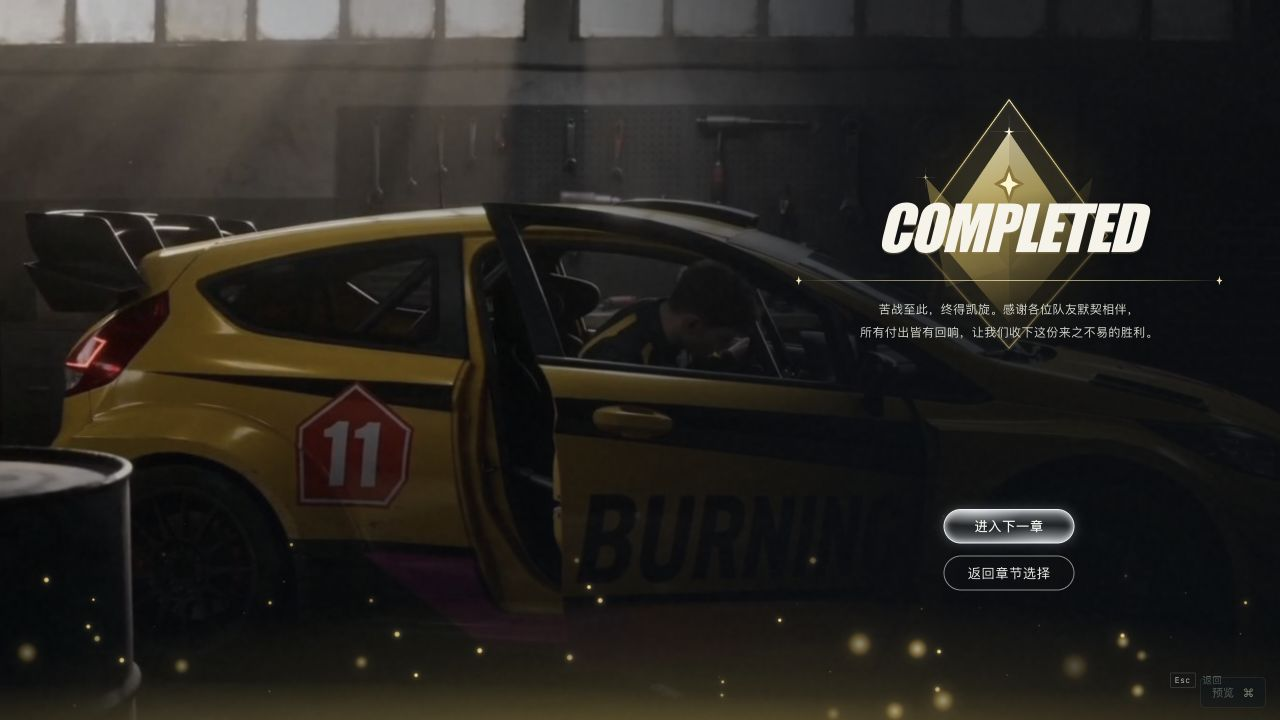
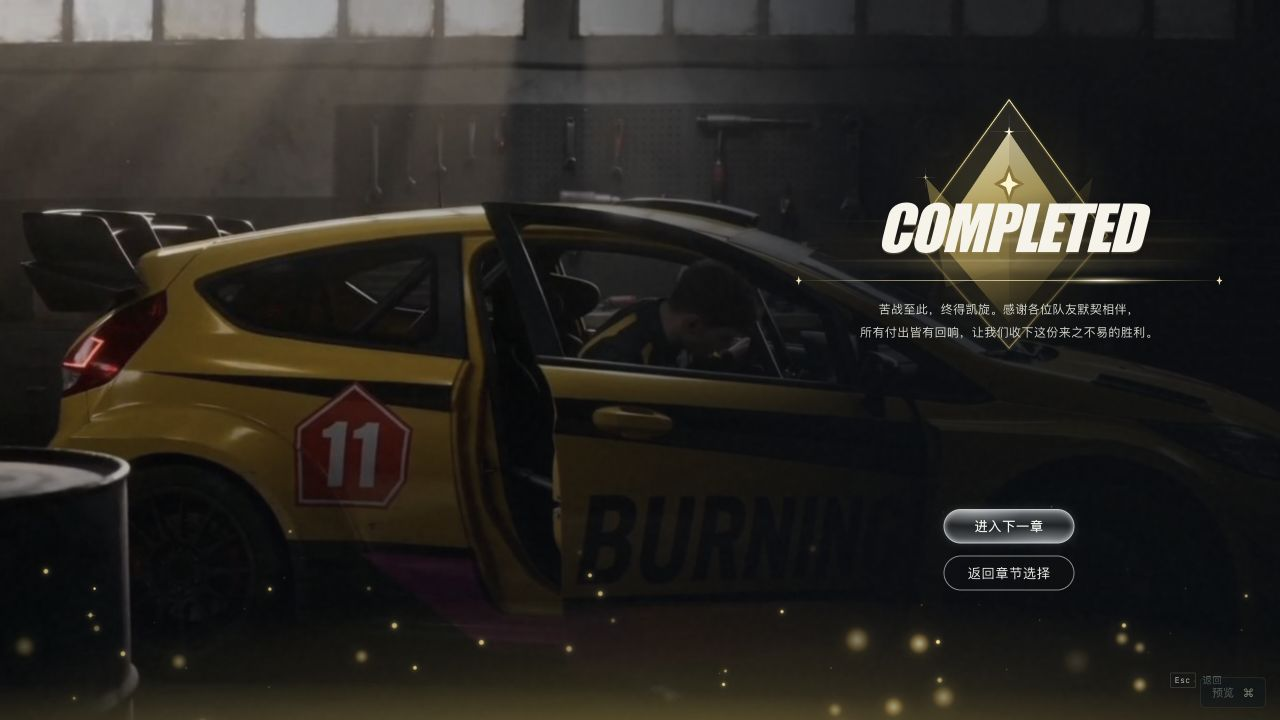
Reveal warm title light with the completion entrance

diff --git a/compare.html b/compare.html
@@ -6,4 +6,4 @@
 <div id="comparison" class="comparison fit-stage" data-mode="wipe"><div class="still-stage"><div class="before-layer"><img id="before-image" alt="修改前截图"><div id="no-before" class="no-before" hidden><span>—</span><h3>没有对应原版截图</h3><p id="before-note"></p></div><span class="picture-label before-label">原版</span></div><div class="after-layer" id="after-layer"><img id="after-image" alt="修改后截图"><span class="picture-label after-label">新版</span></div><div id="wipe-handle" class="wipe-handle"><span>↔</span></div><div class="safe-area" aria-hidden="true"><span>4.5% 水平安全区</span></div></div><div class="motion-stage" hidden><iframe id="motion-frame" title="页面动效预览"></iframe><div class="safe-area" aria-hidden="true"><span>4.5% 水平安全区</span></div></div></div>
 <div id="slider-row" class="slider-row"><span>新版更多</span><input id="wipe-slider" type="range" min="0" max="100" value="50" aria-label="新旧画面分割位置"><span>原版更多</span></div><p id="image-note" class="image-note"></p><div class="change-summary"><div><h3>布局与层级</h3><p id="change"></p></div><div><h3>比例</h3><p id="ratio"></p></div><div><h3>动效与操作</h3><p id="motion"></p><p id="interaction"></p></div></div></section>
 <section id="proportions" class="spec-section"><div class="section-heading"><span class="eyebrow">PROPORTION SYSTEM</span><h2>分别调整层级，建立统一的尺寸体系。</h2><p>以下均以 1920×1080 为设计基准。背景随视口铺满，UI 按当前基准等比缩放；水平安全区为画面宽度的 4.5%。原版数值来自截图估测。</p></div><div class="table-scroll"><table><thead><tr><th>项目</th><th>原版 · 约</th><th>新版</th><th>变化</th><th>调整目的</th></tr></thead><tbody id="proportion-table"></tbody></table></div><div class="principles"><div><span>01</span><h3>让场景成为主体</h3><p>减少全屏灰白覆盖和重高光。菜单、设置、弹窗用暗色虚化与局部明暗建立前后层次。</p></div><div><span>02</span><h3>控制视觉重量</h3><p>正文、辅助数值、主操作分别定标。保留大结果标题，收紧表单标签与导航控件。</p></div><div><span>03</span><h3>统一反馈语言</h3><p>细描边、短位移、柔和减速。悬停、按下、选中、取消与退出都给出明确回应。</p></div></div></section>
-<section id="handoff" class="spec-section"><div class="section-heading"><span class="eyebrow">MOTION SYSTEM</span><h2>一套进出场节奏，覆盖每个页面。</h2><p>页面退出 150ms，新页标题先入场，内容以 42–85ms 错峰，主体在约 0.8–1.1s 内落位。背景与封面 Logo 使用更长的缓慢收尾。</p></div><div class="motion-grid"><div><h3>常规入场</h3><strong>560–760<span> ms</span></strong><p>缓动 cubic-bezier(.16, 1, .3, 1)<br>上下位移约 8–24px，以设计基准计</p></div><div><h3>背景推近</h3><strong>3.6<span> s</span></strong><p>起止速度与加速度均为零<br>封面 100% → 103.5%，结束后停留</p></div><div><h3>确认弹窗</h3><strong>420<span> ms</span></strong><p>遮罩先淡入，弹窗轻浮落位<br>退出 150ms，取消后恢复焦点</p></div></div><div class="check-row"><span>✓ 页面切换</span><span>✓ 悬停 / 按下</span><span>✓ 键盘操作</span><span>✓ 弹窗焦点</span><span>✓ 减少动态效果适配</span><span>✓ 所有页面可重播</span><span>✓ Hover / 点击 / 切页音效</span></div><div class="file-links"><a href="design-tokens.json" download>下载尺寸与颜色参数</a><a href="motion-spec.json" download>下载逐页动效参数</a><a href="sound-spec.json" download>下载界面音效参数</a><a href="implementation-notes.txt" download>下载落地说明</a><a href="https://preview.game.yoroll.ai/?config=Race&test=1&lang=zh" target="_blank">查看原始预览 ↗</a></div><details open><summary>范围、素材与验证说明</summary><ul id="scope-notes"></ul><p>已检查主菜单、章节与剧情树导航；设置数值与语言下拉；新建存档和确认 / 取消；限时选择暂停计时；选择 → QTE → 结果链路；完成页可进入下一章或返回章节选择。所有页面 / 状态均已保存本地截图。</p></details></section><footer class="report-footer">YOROLL · UI & MOTION EXPLORATION <span>2026.11.11 · 本地方案</span></footer></article></main><script src="report-data.js?v=affinity-atmosphere-20261114"></script><script src="compare.js?v=affinity-atmosphere-20261114"></script></body></html>
+<section id="handoff" class="spec-section"><div class="section-heading"><span class="eyebrow">MOTION SYSTEM</span><h2>一套进出场节奏，覆盖每个页面。</h2><p>页面退出 150ms，新页标题先入场，内容以 42–85ms 错峰，主体在约 0.8–1.1s 内落位。背景与封面 Logo 使用更长的缓慢收尾。</p></div><div class="motion-grid"><div><h3>常规入场</h3><strong>560–760<span> ms</span></strong><p>缓动 cubic-bezier(.16, 1, .3, 1)<br>上下位移约 8–24px，以设计基准计</p></div><div><h3>背景推近</h3><strong>3.6<span> s</span></strong><p>起止速度与加速度均为零<br>封面 100% → 103.5%，结束后停留</p></div><div><h3>确认弹窗</h3><strong>420<span> ms</span></strong><p>遮罩先淡入，弹窗轻浮落位<br>退出 150ms，取消后恢复焦点</p></div></div><div class="check-row"><span>✓ 页面切换</span><span>✓ 悬停 / 按下</span><span>✓ 键盘操作</span><span>✓ 弹窗焦点</span><span>✓ 减少动态效果适配</span><span>✓ 所有页面可重播</span><span>✓ Hover / 点击 / 切页音效</span></div><div class="file-links"><a href="design-tokens.json" download>下载尺寸与颜色参数</a><a href="motion-spec.json" download>下载逐页动效参数</a><a href="sound-spec.json" download>下载界面音效参数</a><a href="implementation-notes.txt" download>下载落地说明</a><a href="https://preview.game.yoroll.ai/?config=Race&test=1&lang=zh" target="_blank">查看原始预览 ↗</a></div><details open><summary>范围、素材与验证说明</summary><ul id="scope-notes"></ul><p>已检查主菜单、章节与剧情树导航；设置数值与语言下拉；新建存档和确认 / 取消；限时选择暂停计时；选择 → QTE → 结果链路；完成页可进入下一章或返回章节选择。所有页面 / 状态均已保存本地截图。</p></details></section><footer class="report-footer">YOROLL · UI & MOTION EXPLORATION <span>2026.11.11 · 本地方案</span></footer></article></main><script src="report-data.js?v=result-title-light-20261114"></script><script src="compare.js?v=result-title-light-20261114"></script></body></html>

diff --git a/app.js b/app.js
@@ -557,7 +557,7 @@ function resultDustMarkup(){
 }
 function resultView(){
  const last=selectedChapter===CHAPTER_PREVIEWS.length-1;
- return `${resultDustMarkup()}<section class="result-layout" aria-labelledby="result-title"><div class="result-emblem" data-enter="result-emblem" aria-hidden="true"><img src="assets/completion-emblem.svg" alt="" draggable="false"></div><div class="result-copy"><h1 id="result-title" data-enter="result-title" aria-label="章节完成">COMPLETED</h1><div class="result-divider" data-enter="result-divider" aria-hidden="true"><i></i><i></i></div><p data-enter="result-copy">苦战至此，终得凯旋。感谢各位队友默契相伴，<br>所有付出皆有回响，让我们收下这份来之不易的胜利。</p></div><div class="result-actions"><div data-enter="result-action">${button(last?'返回主菜单':'进入下一章','result-next','btn-primary')}</div><div data-enter="result-action">${goButton('返回章节选择','chapters')}</div></div></section>${footer('')}`;
+ return `${resultDustMarkup()}<section class="result-layout" aria-labelledby="result-title"><div class="result-emblem" data-enter="result-emblem" aria-hidden="true"><img src="assets/completion-emblem.svg" alt="" draggable="false"></div><div class="result-copy"><div class="result-title-group" data-enter="result-title"><div class="result-title-light" data-enter="result-title-light" aria-hidden="true"><i class="result-title-ray"></i><i class="result-title-ray"></i><i class="result-title-ray"></i></div><h1 id="result-title" aria-label="章节完成">COMPLETED</h1></div><div class="result-divider" data-enter="result-divider" aria-hidden="true"><i></i><i></i></div><p data-enter="result-copy">苦战至此，终得凯旋。感谢各位队友默契相伴，<br>所有付出皆有回响，让我们收下这份来之不易的胜利。</p></div><div class="result-actions"><div data-enter="result-action">${button(last?'返回主菜单':'进入下一章','result-next','btn-primary')}</div><div data-enter="result-action">${goButton('返回章节选择','chapters')}</div></div></section>${footer('')}`;
 }
 const renders={splash:splashView,home:()=>homeView(),cover:()=>homeView(true),chapters:chaptersView,tree:treeView,affinity:affinityView,saves:saveView,settings:settingsView,logout:()=>homeView(),gameplay:gameplayView,pause:pauseView,choice:choiceView,qte:qteView,result:resultView,exit:()=>homeView()};
 function setScene(page){
@@ -603,6 +603,7 @@ function enterPage(){
  $$('[data-enter="wordmark"]').forEach(el=>enter(el,{y:unit(18),scale:.975,blur:5,delay:200,duration:1600}));
  $$('[data-enter="result-emblem"]').forEach(el=>enter(el,{y:unit(12),scale:.95,blur:2,delay:40,duration:1250}));
  $$('[data-enter="result-title"]').forEach(el=>enter(el,{y:unit(16),scale:.985,delay:160,duration:850}));
+ $$('[data-enter="result-title-light"]').forEach(el=>animate(el,[{opacity:0,transform:'scale3d(.38,.65,1)',offset:0,easing:'cubic-bezier(.22,.61,.36,1)'},{opacity:.9,transform:'scale3d(1.04,1.08,1)',offset:.46,easing:'cubic-bezier(.45,0,.55,1)'},{opacity:.46,transform:'scale3d(1,1,1)',offset:1}],{duration:1500,delay:160,easing:'linear'}));
  $$('[data-enter="result-divider"]').forEach(el=>animate(el,[{opacity:0,transform:'scaleX(.7)'},{opacity:1,transform:'scaleX(1)'}],{duration:1000,delay:260,easing:'cubic-bezier(.16,1,.3,1)'}));
  $$('[data-enter="result-atmosphere"]').forEach(el=>enter(el,{y:0,delay:180,duration:1400}));
  animateScene();

diff --git a/style.css b/style.css
@@ -251,8 +251,18 @@
 .result-emblem{position:absolute;z-index:-1;left:50%;top:calc(var(--p)*-160);translate:-50% 0;width:calc(var(--p)*350);pointer-events:none}
 .result-emblem img{display:block;width:100%;height:auto}
 .result-copy{width:100%}
+.result-title-group{position:relative;isolation:isolate}
+.result-title-group h1{position:relative;z-index:1}
+.result-title-light{position:absolute;z-index:0;top:calc(var(--p)*14);bottom:calc(var(--p)*-24);left:-6%;right:-6%;opacity:.46;transform-origin:50% 70%;pointer-events:none;mix-blend-mode:screen}
+.result-title-light:before{content:"";position:absolute;inset:6% 3%;border-radius:50%;background:radial-gradient(ellipse at 52% 66%,#efc8664a,#dca73524 34%,transparent 72%);filter:blur(calc(var(--p)*7))}
+.result-title-light:after{content:"";position:absolute;left:8%;right:3%;bottom:calc(var(--p)*4);height:calc(var(--p)*28);background:radial-gradient(ellipse,#ffe6a84d,transparent 70%);filter:blur(calc(var(--p)*3))}
+.result-title-ray{--ray-y:24%;--ray-height:2;--ray-blur:.9;--ray-strength:.55;position:absolute;left:2%;right:2%;top:var(--ray-y);height:calc(var(--p)*var(--ray-height));translate:0 -50%;border-radius:50%;background:linear-gradient(90deg,transparent,#c6972614 12%,#f7d17f99 34%,#fff3c6bd 52%,#e5bc4f73 70%,transparent);filter:blur(calc(var(--p)*var(--ray-blur)));opacity:var(--ray-strength)}
+.result-title-ray:nth-child(2){--ray-y:50%;--ray-height:5;--ray-blur:2.3;--ray-strength:.75;left:6%;right:1%}
+.result-title-ray:nth-child(3){--ray-y:78%;--ray-height:2.5;--ray-blur:.8;--ray-strength:.72;left:0;right:7%}
 .result-layout h1{margin:0;color:#f6f4e9;font-family:Impact,"Arial Black","Helvetica Neue",sans-serif;font-size:calc(var(--p)*92);font-weight:900;font-style:italic;line-height:1.08;letter-spacing:-.025em;text-shadow:0 calc(var(--p)*2) 0 #ad976951,0 calc(var(--p)*7) calc(var(--p)*30) #0003}
 .result-divider{height:calc(var(--p)*4);position:relative;margin:calc(var(--p)*28) 0 calc(var(--p)*24);background:linear-gradient(90deg,#ead99a00,#ead99a8c 20%,#f6e7adbd 50%,#ead99a8c 80%,#ead99a00) center/100% 1px no-repeat}
+.result-divider:before{content:"";position:absolute;left:72%;top:50%;translate:-50% -50%;width:calc(var(--p)*180);height:calc(var(--p)*12);border-radius:50%;background:radial-gradient(ellipse,#fffaf1e6,#ffeab58c 16%,#efd08238 40%,transparent 72%);filter:blur(calc(var(--p)*1.2));pointer-events:none}
+.result-divider:after{content:"";position:absolute;left:72%;top:50%;translate:-50% -50%;width:calc(var(--p)*72);height:max(1px,calc(var(--p)*1.4));background:linear-gradient(90deg,transparent,#fffced,transparent);box-shadow:0 0 calc(var(--p)*7) #ffe2a04d;pointer-events:none}
 .result-divider i{position:absolute;top:50%;left:0;width:calc(var(--p)*9);height:calc(var(--p)*14);translate:0 -50%;background:#f3e6b5;clip-path:polygon(50% 0,64% 38%,100% 50%,64% 62%,50% 100%,36% 62%,0 50%,36% 38%)}
 .result-divider i:last-child{left:auto;right:0}
 .result-copy p{margin:0;color:#d4d8ce;font-size:calc(var(--p)*18);font-weight:400;line-height:1.9;letter-spacing:.035em}

diff --git a/compare.js b/compare.js
@@ -15,7 +15,7 @@ function updatePage(){
  $('#page-kind').textContent=page.kind;
  $('#page-count').textContent=`${String(index+1).padStart(2,'0')} / ${pages.length}`;
  $('#change').textContent=page.change;$('#ratio').textContent=page.ratio;$('#motion').textContent=page.motion;$('#interaction').textContent=page.interaction;
- $('#after-image').src=`comparison/after/${page.id}.jpg?v=affinity-atmosphere-20261114`;
+ $('#after-image').src=`comparison/after/${page.id}.jpg?v=result-title-light-20261114`;
  $('#after-image').alt=page.name+'修改后';
  $('#before-image').hidden=!page.before;
  $('#no-before').hidden=Boolean(page.before);
@@ -23,12 +23,12 @@ function updatePage(){
  else $('#before-image').removeAttribute('src');
  $('#before-note').textContent=page.beforeNote|| (page.kind==='沿用已定方案'?'沿用本聊天之前已确认的封面构图与素材。':'该状态未在这次线上预览中观察到。新版提供可操作的补充动效示例。');
  $('#image-note').textContent=mode==='motion'?'当前为可操作的实时动效。页面内可以继续导航，点击重播可回到所选页面。':page.before?(page.beforeSource==='user'?'原版来自用户提供的旧版 UI；新版为浏览器实际截图，重点对比尺寸、间距和动效。':'原版来自线上实际截图；新版为本地浏览器截图。底图部分不同，对比重点为 UI 占比、层级与位置。'):'左侧保留来源说明；右侧展示本轮方案。点击「播放动效」体验完整入场。';
- $('#open-prototype').href=`index.html?page=${page.id}&revision=affinity-atmosphere-20261114`;
+ $('#open-prototype').href=`index.html?page=${page.id}&revision=result-title-light-20261114`;
  document.querySelectorAll('[data-page]').forEach(button=>{if(button.dataset.page===page.id)button.setAttribute('aria-current','page');else button.removeAttribute('aria-current');});
  history.replaceState(null,'','#'+page.id);
  if(mode==='motion')loadMotion();
 }
-function loadMotion(){const page=pages[index];$('#motion-frame').src=`index.html?page=${page.id}&capture=1&revision=affinity-atmosphere-20261114&replay=${++replay}`;}
+function loadMotion(){const page=pages[index];$('#motion-frame').src=`index.html?page=${page.id}&capture=1&revision=result-title-light-20261114&replay=${++replay}`;}
 function setMode(value){
  mode=value;$('#comparison').dataset.mode=mode;
  document.querySelectorAll('button[data-mode]').forEach(button=>button.setAttribute('aria-pressed',String(button.dataset.mode===mode)));

diff --git a/report-data.js b/report-data.js
@@ -167,14 +167,15 @@ window.YOROLL_REPORT = {
       "kind": "用户提供原版 UI",
       "change": "按原版恢复右侧 COMPLETED 标题、金色几何徽记、星点分隔线与上下排列的胶囊操作；去掉示意评级、进度和额外页眉，保留当前游戏场景。",
       "ratio": "标题 92px、说明 18px；胶囊按钮 196×52px、文字 20px、纵向间距 18px；右侧内容宽 640px。以当前 1920×1080 基准等比缩放。",
-      "motion": "徽记、标题、分隔线、说明和按钮依次落位；底部暖黄色光雾缓慢流动，64 个粒子分为远景细尘、中景亮点、近景虚焦光斑，以不同速度上浮漂移。4 个亮点柔和闪出星芒，尺寸和透明度自然变化。Hover 与点击反馈沿用当前版本。 玻璃主按钮的整圈边缘和上下高光以 3.8s 周期呼吸，暗部收光、亮部增强；按钮与文字保持稳定，悬停进一步提亮。",
+      "motion": "徽记先显现；标题与三层金色横向光带同步落位，光带在 1.5s 内展开提亮后缓缓收光。分隔线增加偏右的柔和亮点。底部暖色光雾和 64 个远近粒子、主按钮 3.8s 呼吸继续运行。",
       "interaction": "进入下一章会前进到下一示例章节；最后一章改为返回主菜单。返回章节选择保留当前章节，Esc 同样返回；支持 Tab、Enter 和重播。 完成标题入场时播放一次与首页同源、稍明亮轻快的共鸣音（4.64s），重播同样带音效，遵循全局声音开关和音效音量。",
       "beforeSource": "user",
       "beforeNote": "旧版完成 UI 由用户提供；新版保留当前故事场景，重点对比右侧构图、比例和动效。",
       "referenceRevision": "result-reference-20261114",
       "particlesRevision": "completion-gold-particles-20261114",
       "buttonLightRevision": "glass-button-breathe-v2-20261114",
-      "completionAudioRevision": "completion-cue-20261114"
+      "completionAudioRevision": "completion-cue-20261114",
+      "titleLightRevision": "result-title-light-20261114"
     },
     {
       "id": "exit",

diff --git a/index.html b/index.html
@@ -6,7 +6,7 @@
   <meta name="theme-color" content="#0a0d0e">
   <title>Yoroll · 游戏 UI 动效改版</title>
   <link rel="icon" href="wall/assets/yoroll-icon.svg">
-  <link rel="stylesheet" href="style.css?v=affinity-atmosphere-20261114">
+  <link rel="stylesheet" href="style.css?v=result-title-light-20261114">
   <link rel="preload" as="fetch" href="assets/audio/home-opening.wav?v=opening-fade-20261111" crossorigin="anonymous">
 </head>
 <body>
@@ -33,6 +33,6 @@
   <script src="ui-sound.js?v=completion-brighter-20261114"></script>
   <script src="home-music.js?v=completion-gold-particles-20261114"></script>
   <script src="story-tree.js?v=tree-locked-hover-20261113"></script>
-  <script src="app.js?v=affinity-atmosphere-20261114"></script>
+  <script src="app.js?v=result-title-light-20261114"></script>
 </body>
 </html>
